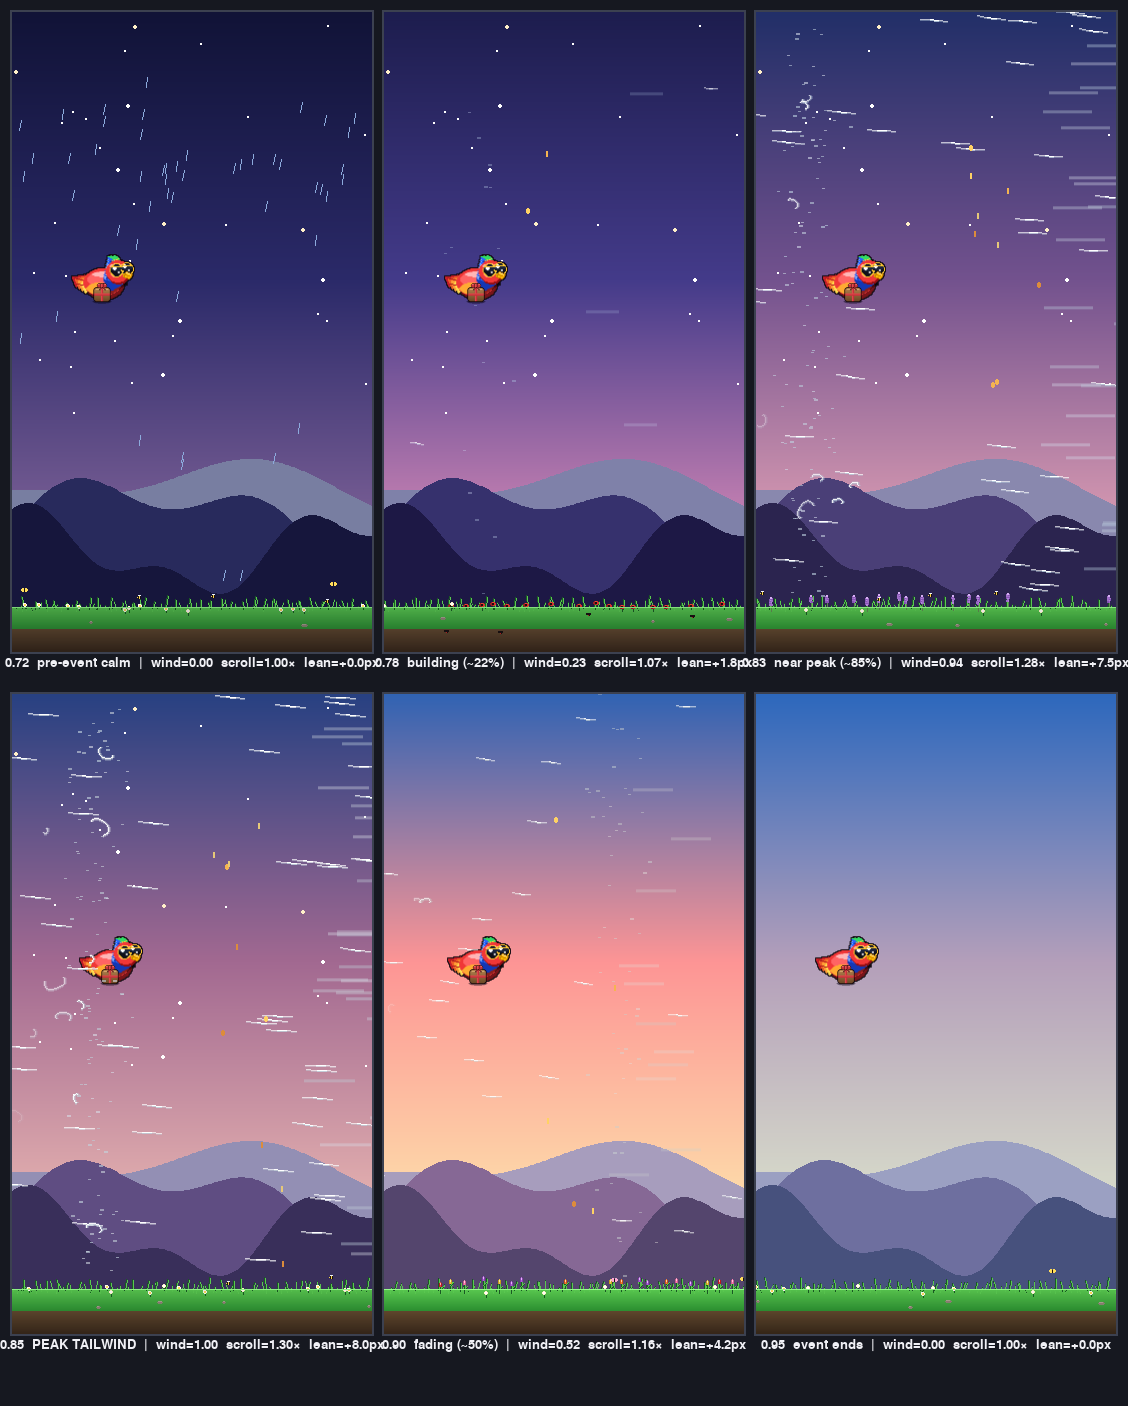
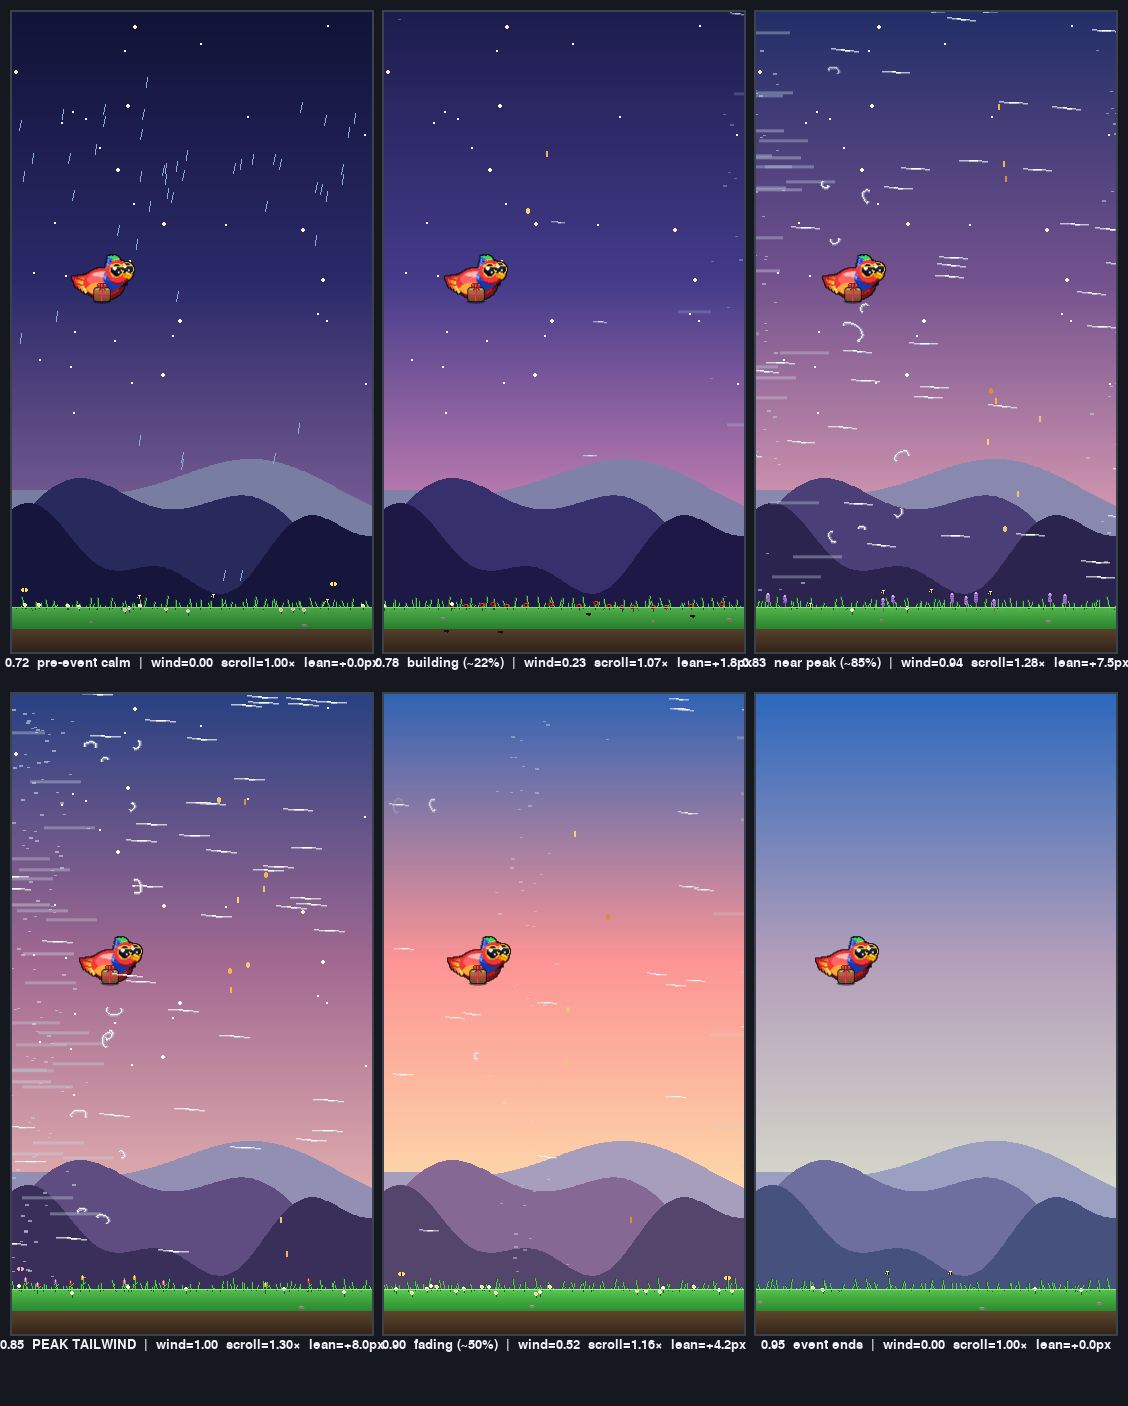
wind: bump particle speeds ~30% for a snappier tailwind
All four layers sped up while preserving the parallax depth
ordering (drift slowest → dust fastest):

  streak  320..620 → 420..770 px/s
  drift   110..210 → 150..280 px/s
  swirl   100..210 → 130..270 px/s
  dust    380..640 → 500..810 px/s

Pure motion change — spawn rates, gating, sizes, colours and
the gameplay boost (lean +8 px, scroll 1.30×) all unchanged.

Tests: 22/22.

diff --git a/game/weather.py b/game/weather.py
@@ -572,7 +572,7 @@ class Weather:
         else:
             x = random.uniform(-20, W * 0.6)
             y = random.uniform(-30, 0)
-        vx = (320 + streak_t * 220) + random.uniform(0, 80)
+        vx = (420 + streak_t * 260) + random.uniform(0, 90)
         vy = 30 + random.uniform(-10, 40)
         length = int(12 + streak_t * 18)
         col = self._wind_palette(phase)
@@ -588,7 +588,7 @@ class Weather:
         """Background slow drift — long soft RIGHTWARD streaks."""
         x = -random.uniform(0, 30)
         y = random.uniform(10, GROUND_Y - 30)
-        vx = (110 + drift_t * 70) + random.uniform(0, 30)
+        vx = (150 + drift_t * 90) + random.uniform(0, 40)
         vy = random.uniform(-5, 15)
         length = int(30 + drift_t * 20)
         col = self._wind_palette(phase)
@@ -601,7 +601,7 @@ class Weather:
         tailwind. Sizes bimodal (small/medium/big feature)."""
         x = -random.uniform(0, 20)
         y = random.uniform(40, GROUND_Y - 60)
-        vx = (100 + swirl_t * 80) + random.uniform(0, 30)
+        vx = (130 + swirl_t * 100) + random.uniform(0, 40)
         vy = random.uniform(-10, 10)
         size_pick = random.random()
         if size_pick < 0.15:
@@ -622,7 +622,7 @@ class Weather:
         """Tiny specks racing RIGHTWARD fast — foreground texture."""
         x = -random.uniform(0, 15)
         y = random.uniform(5, GROUND_Y - 10)
-        vx = (380 + dust_t * 220) + random.uniform(0, 40)
+        vx = (500 + dust_t * 260) + random.uniform(0, 50)
         vy = random.uniform(-10, 25)
         size = random.choice((1, 1, 2))
         col = self._wind_palette(phase)
